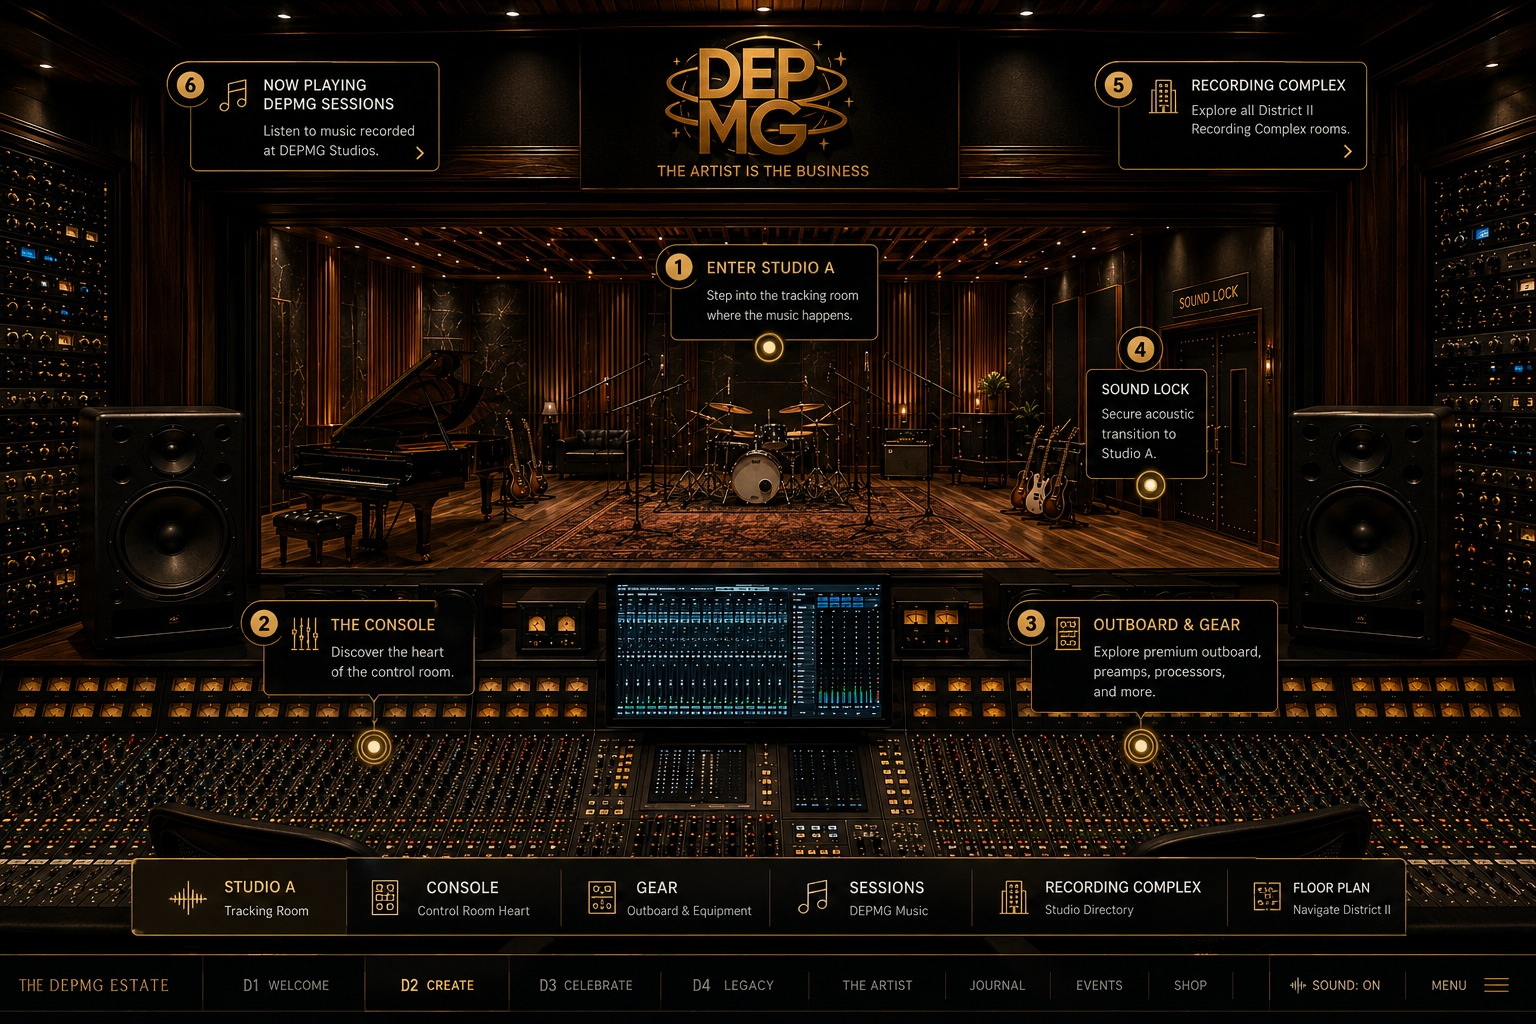
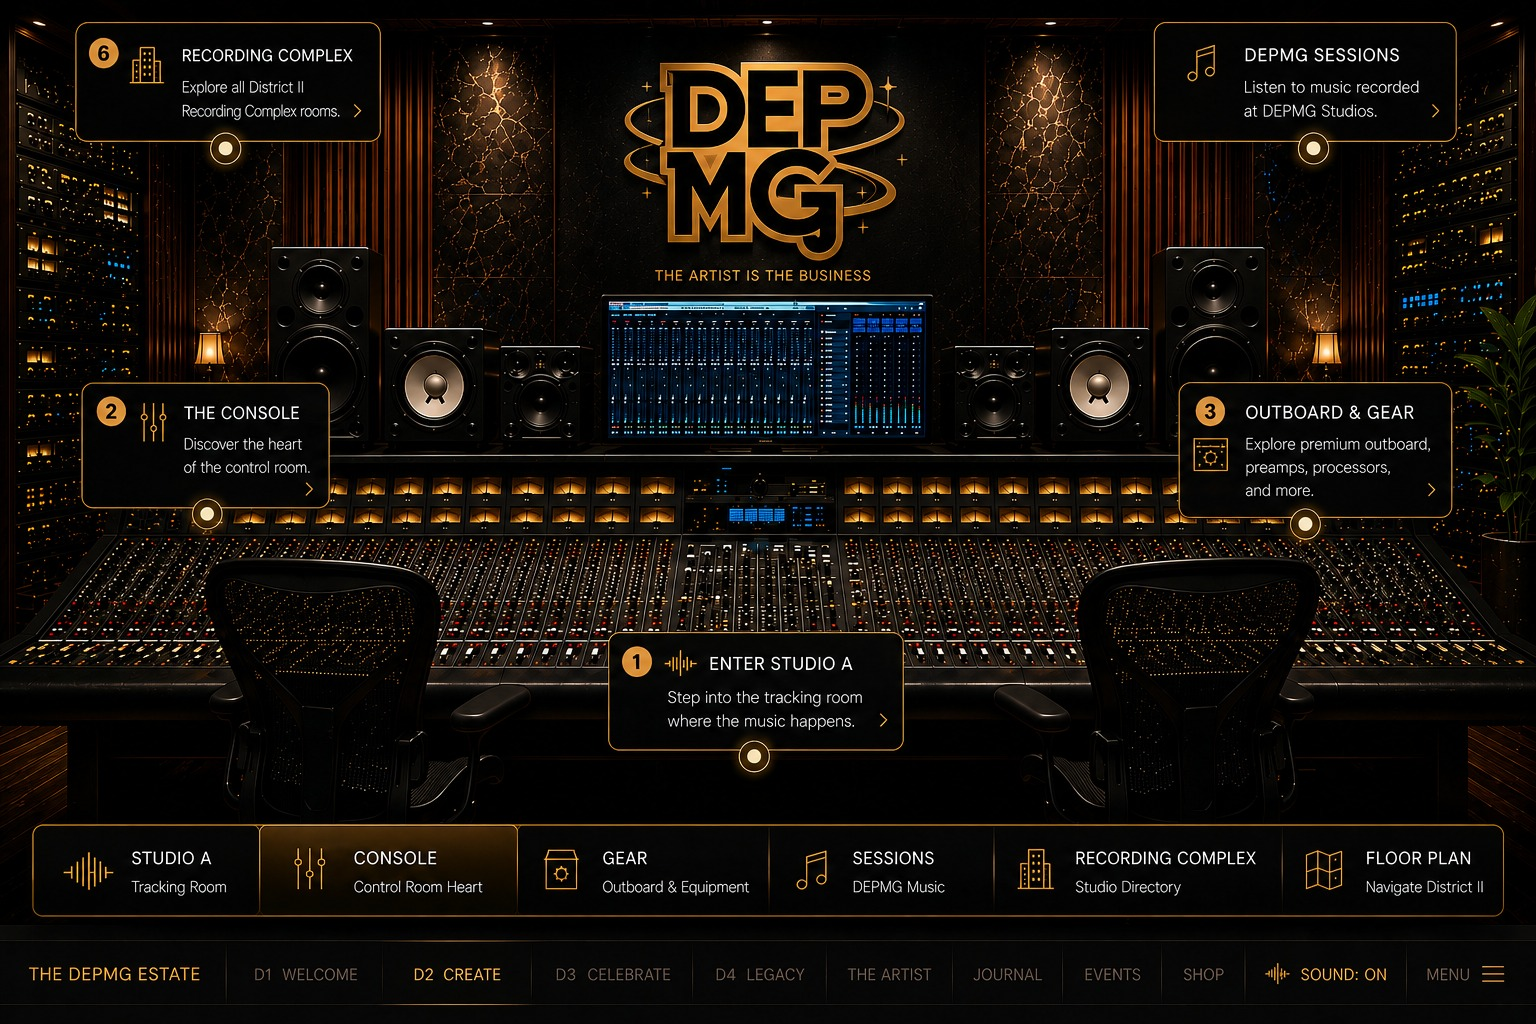
Build II-201 Studio A with architectural reciprocity to II-202
Replaces the II-202 Control Room background with the newly-generated
paired render (same console/monitors/racks visible through the shared
acoustic glass from both sides) and adds II-201 Studio A as a new room,
built from the reverse angle looking back toward that same glass.

Studio A gets seven hotspots: Control Room (real nav back through the
Sound Lock), Recording Complex directory, Grand Piano, Vocal Position
(framed honestly as a workflow area, not II-203), Performance Floor,
Backline & Instruments, and Floor Plan.

Navigation between II-201 and II-202 is now real in both directions,
sharing one Sound Lock transition effect — replacing the honest
"not built yet" fallbacks now that Studio A actually exists. The
Recording Complex directory panel is shared between both rooms and
dynamically marks "You are here" based on the current room. Fixed a
panel eyebrow that was hardcoded to II-202 regardless of which room
opened it.

All hotspot positions grid-measured against the actual renders.

diff --git a/index.html b/index.html
@@ -1093,6 +1093,13 @@ body::before {
   background-size: cover; background-position: center;
   z-index:0;
 }
+#studio-a { background: #06050a; }
+.studio-a-bg {
+  position:fixed; inset:0;
+  background-image: url('assets/images/depmg-studio-a-bg.jpg');
+  background-size: cover; background-position: center;
+  z-index:0;
+}
 
 /* WINE CELLAR */
 #cellar { background: #030202; }
@@ -3683,7 +3690,7 @@ body::before {
   <div class="room-hotspot-rect" style="left:48.3%; top:89.5%; width:7.2%; height:7%;" onclick="goTo('gemini')" title="District III — GEMINI Speakeasy"></div>
   <div class="room-hotspot-rect" style="left:55.8%; top:89.5%; width:7.5%; height:7%;" onclick="goTo('atrium')" title="District IV — The Experience"></div>
   <div class="room-hotspot-rect" style="left:65%; top:88.8%; width:9.4%; height:9%;" onclick="estateToast('Basement / Power infrastructure hasn&rsquo;t been built yet.')" title="Basement — Power"></div>
-  <div class="room-hotspot-rect" style="left:82.7%; top:79.5%; width:17%; height:8.3%;" onclick="estateToast('More of District II — Studio A and the Recording Complex — is next.')" title="D2 Navigation — Explore District II"></div>
+  <div class="room-hotspot-rect" style="left:82.7%; top:79.5%; width:17%; height:8.3%;" onclick="estateToast('The Recording Complex is open beyond the secure threshold — enter any 4-digit code at II-110 to step through.')" title="D2 Navigation — Explore District II"></div>
   <div class="room-nav">
     <button class="back-btn" onclick="goTo('hall')">The Estate</button>
     <span class="room-nav-title">DEPMG Executive Reception</span>
@@ -3709,13 +3716,12 @@ body::before {
 <!-- II-202 CONTROL ROOM — DISTRICT II RECORDING COMPLEX -->
 <div id="control-room" class="inner-room">
   <div class="control-room-bg"></div>
-  <div class="room-hotspot-rect" style="left:16.9%; top:22%; width:66.4%; height:18%;" onclick="saEnterStudioA()" title="Enter Studio A — II-201"></div>
-  <div class="room-hotspot-rect" style="left:75.5%; top:29.3%; width:9.1%; height:23.4%;" onclick="saSoundLockTransition()" title="Sound Lock — physical transition to Studio A"></div>
-  <div class="room-hotspot-rect" style="left:9.8%; top:57.1%; width:26.7%; height:27.8%;" onclick="saOpenPanel('console')" title="The Console — II-202"></div>
-  <div class="room-hotspot-rect" style="left:63.2%; top:57.1%; width:24.7%; height:27.8%;" onclick="saOpenPanel('gear')" title="Outboard &amp; Gear"></div>
-  <div class="room-hotspot-rect" style="left:70.96%; top:5.86%; width:18.23%; height:12.2%; z-index:55;" onclick="saOpenPanel('complex')" title="Recording Complex — District II directory"></div>
-  <div class="room-hotspot-rect" style="left:12.37%; top:6.35%; width:17.6%; height:11.7%; z-index:55;" onclick="saOpenPanel('sessions')" title="Now Playing — DEPMG Sessions"></div>
-  <div class="room-hotspot-rect" style="left:79.1%; top:84.2%; width:12%; height:6.6%;" onclick="openA202FloorPlan()" title="Floor Plan — A-202"></div>
+  <div class="room-hotspot-rect" style="left:38.1%; top:60.5%; width:23.4%; height:14.2%;" onclick="saGoToStudio('studio-a')" title="Enter Studio A — II-201"></div>
+  <div class="room-hotspot-rect" style="left:4.56%; top:36.1%; width:19.2%; height:14.2%;" onclick="saOpenPanel('console')" title="The Console — II-202"></div>
+  <div class="room-hotspot-rect" style="left:75.5%; top:37.1%; width:19.2%; height:15.6%;" onclick="saOpenPanel('gear')" title="Outboard &amp; Gear"></div>
+  <div class="room-hotspot-rect" style="left:4.56%; top:1.95%; width:19.2%; height:14.2%; z-index:55;" onclick="saOpenPanel('complex')" title="Recording Complex — District II directory"></div>
+  <div class="room-hotspot-rect" style="left:75.2%; top:0.98%; width:20.2%; height:16.6%; z-index:55;" onclick="saOpenPanel('sessions')" title="DEPMG Sessions"></div>
+  <div class="room-hotspot-rect" style="left:84.6%; top:83.5%; width:15.4%; height:7.3%;" onclick="openA202FloorPlan()" title="Floor Plan — A-202"></div>
   <div class="room-nav">
     <button class="back-btn" onclick="goTo('depmg')">DEPMG Reception</button>
     <span class="room-nav-title">Studio A · Control Room</span>
@@ -3726,6 +3732,30 @@ body::before {
       <span class="sr-only">District II · CREATE — The Recording Complex</span>
       <h1 class="sr-only">II-202 · Control Room</h1>
       <p class="sr-only">The desk that runs the Recording Complex. Studio A's tracking room sits just past the glass, joined to this room through a dedicated acoustic sound lock — not a doorway.</p>
+    </div>
+  </div>
+</div>
+
+<!-- II-201 STUDIO A — DISTRICT II RECORDING COMPLEX -->
+<div id="studio-a" class="inner-room">
+  <div class="studio-a-bg"></div>
+  <div class="room-hotspot-rect" style="left:71.3%; top:5.37%; width:19.9%; height:12.7%; z-index:55;" onclick="saGoToStudio('control-room')" title="Control Room — through the Sound Lock"></div>
+  <div class="room-hotspot-rect" style="left:5.53%; top:5.37%; width:21.2%; height:13.2%; z-index:55;" onclick="saOpenPanel('complex')" title="Recording Complex — District II directory"></div>
+  <div class="room-hotspot-rect" style="left:0%; top:50.8%; width:21.8%; height:32.7%;" onclick="saOpenPanel('piano')" title="Grand Piano"></div>
+  <div class="room-hotspot-rect" style="left:26%; top:39.1%; width:11.7%; height:21.5%;" onclick="saOpenPanel('vocals')" title="Vocal Position"></div>
+  <div class="room-hotspot-rect" style="left:39.1%; top:58.6%; width:35.8%; height:22.5%;" onclick="saOpenPanel('performance')" title="Performance Floor"></div>
+  <div class="room-hotspot-rect" style="left:74.9%; top:44.9%; width:25.1%; height:31.25%;" onclick="saOpenPanel('backline')" title="Backline &amp; Instruments"></div>
+  <div class="room-hotspot-rect" style="left:84.6%; top:83.5%; width:15.4%; height:7.3%;" onclick="openA202FloorPlan()" title="Floor Plan — A-202"></div>
+  <div class="room-nav">
+    <button class="back-btn" onclick="saGoToStudio('control-room')">Control Room</button>
+    <span class="room-nav-title">Studio A · Tracking Room</span>
+    <span class="room-nav-rsf">RSF</span>
+  </div>
+  <div class="room-content">
+    <div class="fade-up">
+      <span class="sr-only">District II · CREATE — The Recording Complex</span>
+      <h1 class="sr-only">II-201 · Studio A</h1>
+      <p class="sr-only">DEPMG's flagship tracking room — full band, drums, grand piano, strings, choir and live-session configurations, joined to the Control Room through a dedicated acoustic sound lock.</p>
     </div>
   </div>
 </div>
@@ -5250,7 +5280,7 @@ body::before {
 </div>
 
 <script>
-const rooms = ['entrance','hall','study','library','closet','gemini','courtyard','kitchen','rooftop','studio','garage','cellar','mechanical','sitting','bath','suite','grief','vault','observatory','atrium','onyx','legacy','pantry','dining','conservatory','morning','reflection','vista','founder','depmg','control-room'];
+const rooms = ['entrance','hall','study','library','closet','gemini','courtyard','kitchen','rooftop','studio','garage','cellar','mechanical','sitting','bath','suite','grief','vault','observatory','atrium','onyx','legacy','pantry','dining','conservatory','morning','reflection','vista','founder','depmg','control-room','studio-a'];
 let current = 'entrance';
 let monClicks = 0;
 let monTimer = null;
@@ -5528,20 +5558,24 @@ const SA_PANELS = {
   },
   complex: {
     title: 'The Recording Complex · District II',
-    body: `<div class="sa-directory">
-      <div class="sa-d-row"><span class="sa-d-num">II-201</span><span class="sa-d-name">Studio A · Flagship Tracking Room</span></div>
-      <div class="sa-d-row"><span class="sa-d-num">II-202</span><span class="sa-d-name">Studio A Control Room</span><span class="sa-d-here">You are here</span></div>
-      <div class="sa-d-row"><span class="sa-d-num">II-203</span><span class="sa-d-name">Studio A Vocal Booth</span></div>
-      <div class="sa-d-row"><span class="sa-d-num">II-204</span><span class="sa-d-name">Isolation Rooms</span></div>
-      <div class="sa-d-row"><span class="sa-d-num">II-205</span><span class="sa-d-name">Studio B · Production / Writing Studio</span></div>
-      <div class="sa-d-row"><span class="sa-d-num">II-206</span><span class="sa-d-name">Dolby Atmos Mixing Suite</span></div>
-      <div class="sa-d-row"><span class="sa-d-num">II-207</span><span class="sa-d-name">Mastering / Critical Listening Room</span></div>
-      <div class="sa-d-row"><span class="sa-d-num">II-208</span><span class="sa-d-name">Artist Lounge</span></div>
-      <div class="sa-d-row"><span class="sa-d-num">II-209</span><span class="sa-d-name">Producer Lounge / Writing Room</span></div>
-      <div class="sa-d-row"><span class="sa-d-num">II-210A&ndash;C</span><span class="sa-d-name">Instrument / Equipment Vault, Machine Room</span></div>
-      <div class="sa-d-row"><span class="sa-d-num">II-211</span><span class="sa-d-name">Studio Kitchenette + Restrooms</span></div>
-    </div>
-    <p style="margin-top:18px; opacity:0.5; font-style:italic; font-size:13px;">Per A-202 Rev. 4 (frozen). Rooms beyond II-202 haven't been built into the Estate yet.</p>`
+    body: () => {
+      const rows = [
+        ['II-201', 'Studio A · Flagship Tracking Room', 'studio-a'],
+        ['II-202', 'Studio A Control Room', 'control-room'],
+        ['II-203', 'Studio A Vocal Booth', null],
+        ['II-204', 'Isolation Rooms', null],
+        ['II-205', 'Studio B · Production / Writing Studio', null],
+        ['II-206', 'Dolby Atmos Mixing Suite', null],
+        ['II-207', 'Mastering / Critical Listening Room', null],
+        ['II-208', 'Artist Lounge', null],
+        ['II-209', 'Producer Lounge / Writing Room', null],
+        ['II-210A&ndash;C', 'Instrument / Equipment Vault, Machine Room', null],
+        ['II-211', 'Studio Kitchenette + Restrooms', null]
+      ];
+      const list = rows.map(([num, name, id]) => `<div class="sa-d-row"><span class="sa-d-num">${num}</span><span class="sa-d-name">${name}</span>${id === current ? '<span class="sa-d-here">You are here</span>' : ''}</div>`).join('');
+      return `<div class="sa-directory">${list}</div>
+      <p style="margin-top:18px; opacity:0.5; font-style:italic; font-size:13px;">Per A-202 Rev. 4 (frozen). Rooms beyond II-201/II-202 haven't been built into the Estate yet.</p>`;
+    }
   },
   sessions: {
     title: 'DEPMG Sessions',
@@ -5554,27 +5588,44 @@ const SA_PANELS = {
       <a href="https://music.apple.com/us/artist/richfraz/1444729870" target="_blank">Apple Music</a>
     </div>
     <p style="margin-top:18px; opacity:0.6; font-style:italic; font-size:13px;">Production credits and session stories for other DEPMG artists are still being assembled.</p>`
+  },
+  performance: {
+    title: 'Performance Floor',
+    body: `<p>The open tracking floor — reconfigured session to session. One night it's a single vocalist and a mic. The next it's a full rhythm section, strings, horns or a choir, all tracked live in the same room.</p>
+    <p style="opacity:0.6; font-style:italic;">Specific session configurations and stories will populate this panel as they happen.</p>`
+  },
+  piano: {
+    title: 'Grand Piano',
+    body: `<p>A concert grand, positioned to be tracked on its own or live alongside the full room.</p>
+    <p style="opacity:0.6; font-style:italic;">Exact make and model are still being confirmed and will be documented here once locked in.</p>`
+  },
+  vocals: {
+    title: 'Vocal Position',
+    body: `<p>The primary vocal tracking position on the Studio A floor — not an isolated booth. For fully isolated vocal capture, see II-203 Vocal Booth, a separate room not yet built into the Estate.</p>`
+  },
+  backline: {
+    title: 'Backline &amp; Instruments',
+    body: `<p>Guitars, amplifiers and backline equipment on hand for tracking, curated rather than accumulated.</p>
+    <p style="opacity:0.6; font-style:italic;">A full instrument and equipment list is still being assembled and will populate this panel once finalized.</p>`
   }
 };
 function saOpenPanel(key) {
   const p = SA_PANELS[key];
   if (!p) return;
+  document.getElementById('sa-panel-eyebrow').textContent = current === 'studio-a' ? 'II-201 · Studio A' : 'II-202 · Control Room';
   document.getElementById('sa-panel-title').innerHTML = p.title;
-  document.getElementById('sa-panel-body').innerHTML = p.body;
+  document.getElementById('sa-panel-body').innerHTML = typeof p.body === 'function' ? p.body() : p.body;
   document.getElementById('sa-panel-modal').classList.add('open');
 }
 function saClosePanel() {
   document.getElementById('sa-panel-modal').classList.remove('open');
 }
-function saEnterStudioA() {
-  estateToast('Studio A’s tracking room hasn’t been built into the Estate yet — for now, the view through the glass is as close as you can get.');
-}
-function saSoundLockTransition() {
+function saGoToStudio(destId) {
   const el = document.getElementById('sa-soundlock-transition');
   el.classList.add('show');
   setTimeout(() => {
     el.classList.remove('show');
-    estateToast('The Sound Lock leads to Studio A’s tracking room, which hasn’t been built into the Estate yet. The architecture is real — the room just isn’t finished.');
+    goTo(destId);
   }, 1400);
 }
 
@@ -11859,7 +11910,7 @@ m7 = cards/m7-algorhythm.png
 <div id="sa-panel-modal" onclick="saClosePanel()">
   <div class="sa-card" onclick="event.stopPropagation()">
     <button class="sa-close" onclick="saClosePanel()" aria-label="Close">&times;</button>
-    <p class="sa-eyebrow">II-202 &middot; Control Room</p>
+    <p class="sa-eyebrow" id="sa-panel-eyebrow">II-202 &middot; Control Room</p>
     <h3 class="sa-title" id="sa-panel-title"></h3>
     <div class="sa-body" id="sa-panel-body"></div>
   </div>
@@ -11902,6 +11953,13 @@ m7 = cards/m7-algorhythm.png
           <div class="explorer-room-label">
             <span class="explorer-room-sub">District II</span>
             <span class="explorer-room-name">Studio A · Control Room</span>
+          </div>
+        </div>
+        <div class="explorer-room" onclick="openExplorerRoom('studio-a')">
+          <div class="explorer-room-bg" style="background-image:url('assets/images/depmg-studio-a-bg.jpg');"></div>
+          <div class="explorer-room-label">
+            <span class="explorer-room-sub">District II</span>
+            <span class="explorer-room-name">Studio A · Tracking Room</span>
           </div>
         </div>
         <div class="explorer-room" onclick="openExplorerRoom('atrium')">
